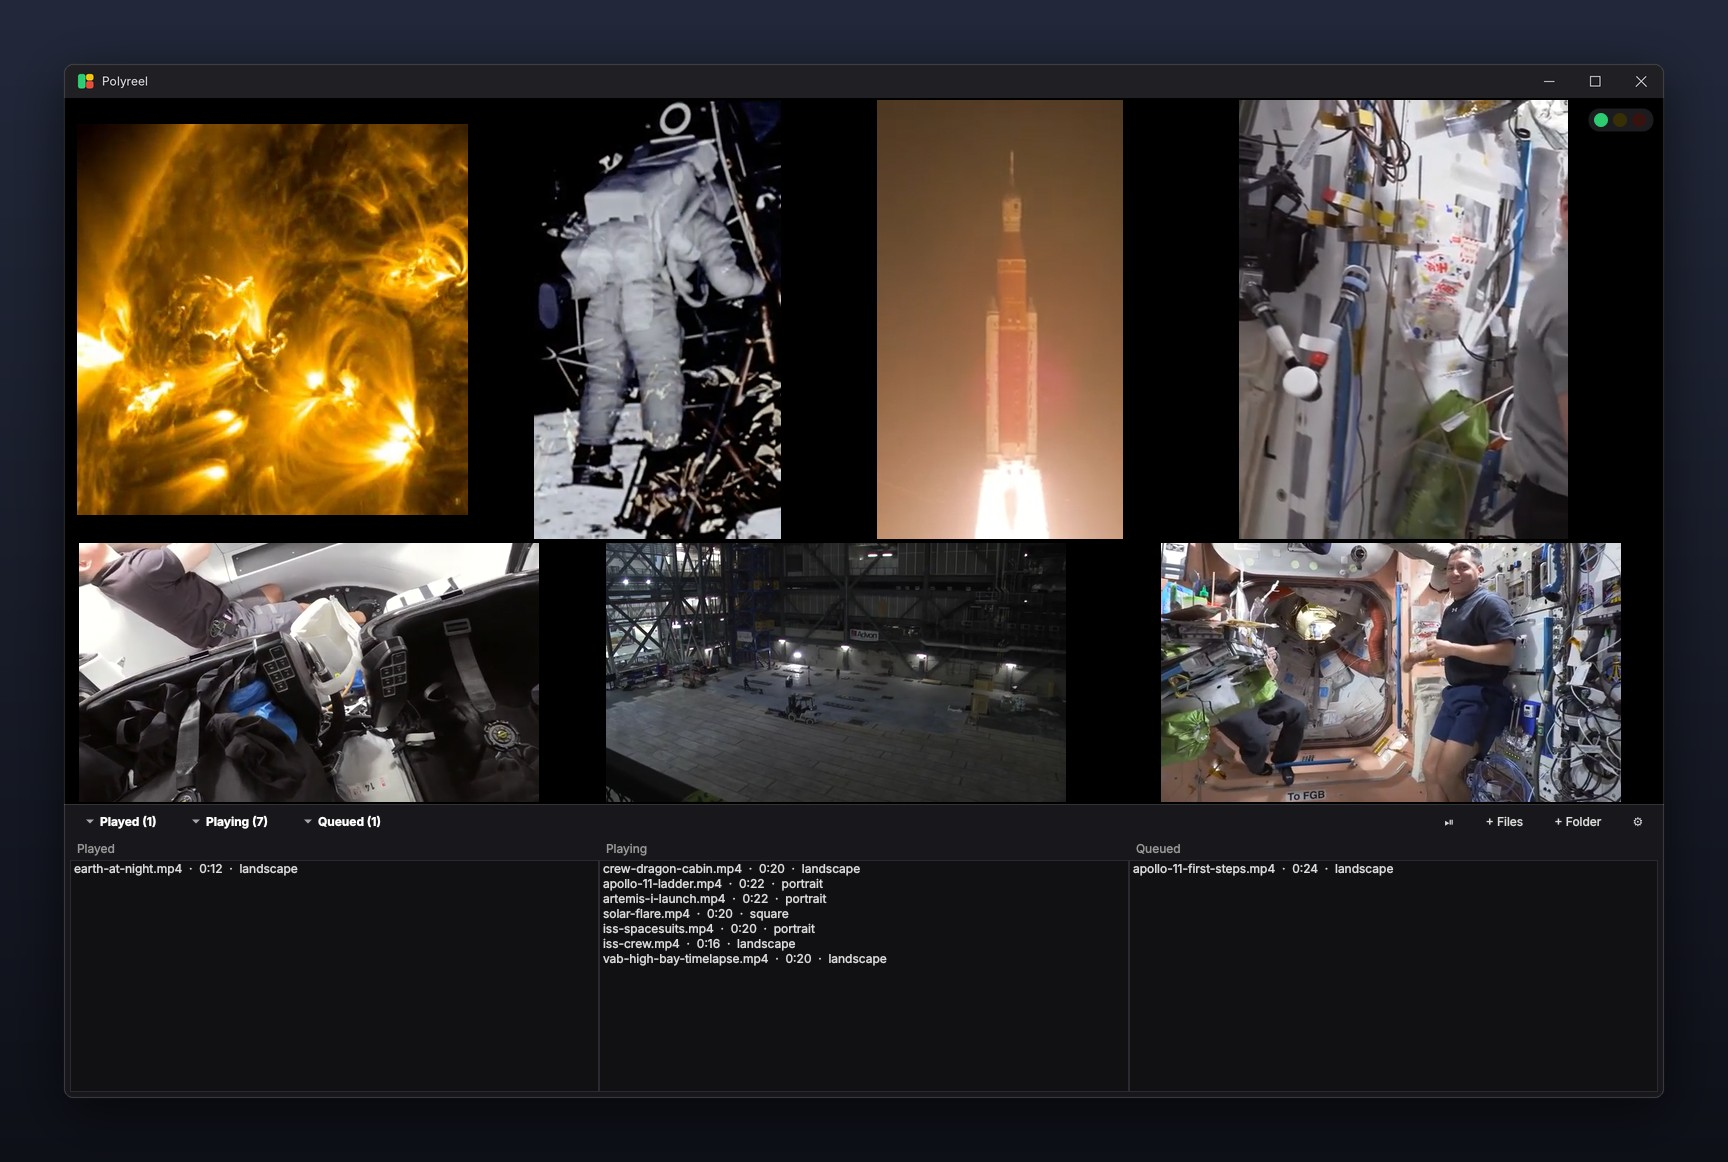
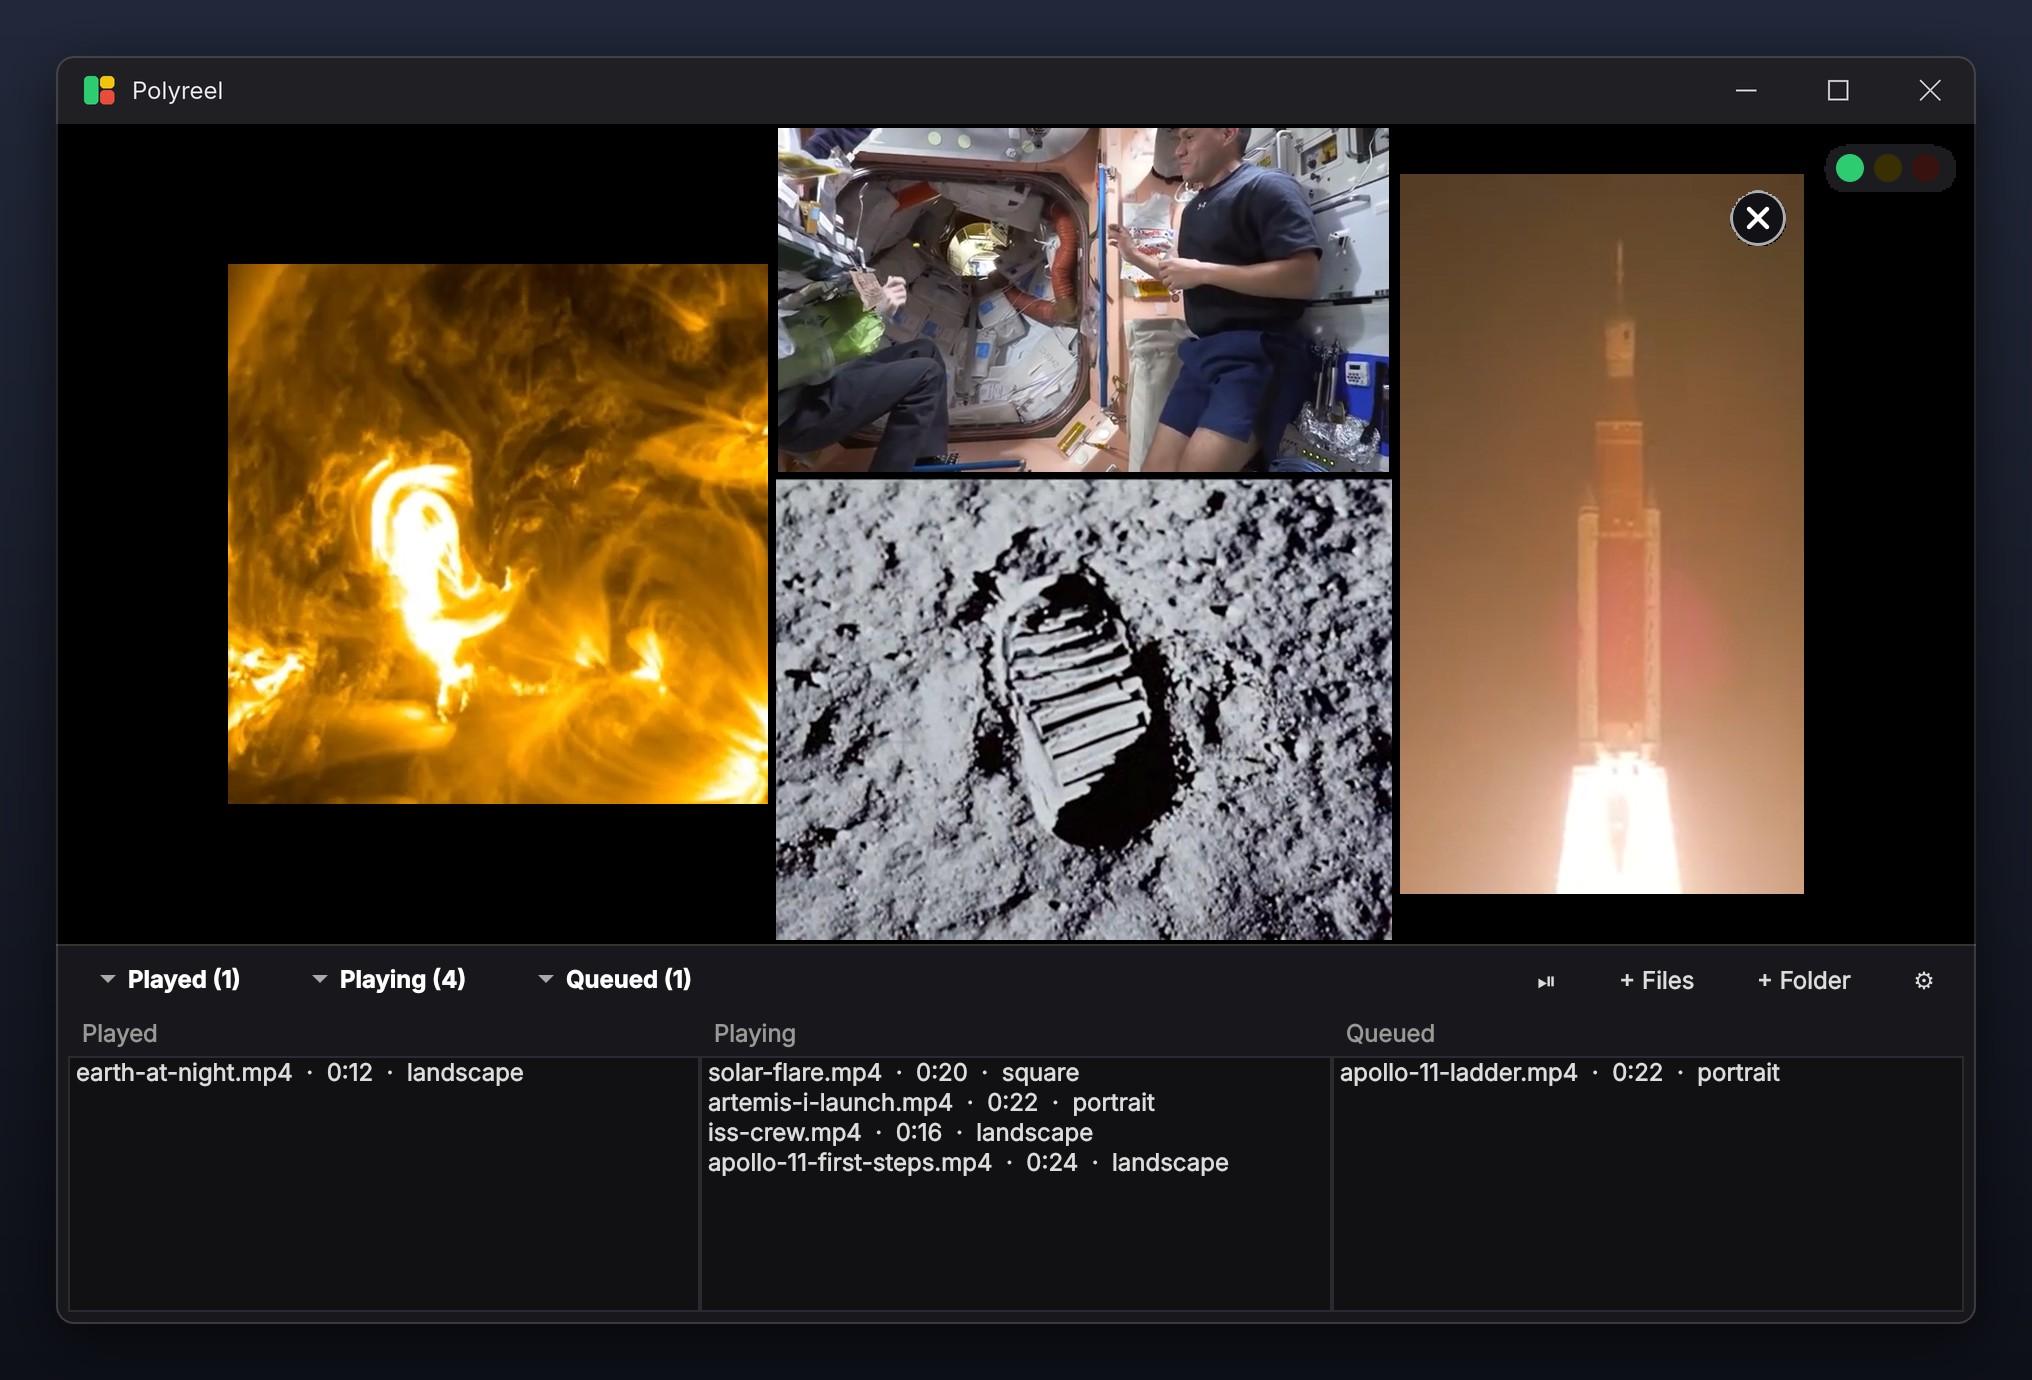
Fix close button drawing; sharper README screenshot
- The X on the hover close button was never drawn (its pen had been
  turned off). Clip the button to a circle and the traffic light to its
  rounded badge, since native windows can't have transparent corners.
- README screenshot: smaller window with four videos, captured at 2x so
  the UI stays legible at GitHub's README width.

Claude-Session: https://claude.ai/code/session_01YSjyu7AAsgPigDdfq1HNAr

diff --git a/polyreel/ui.py b/polyreel/ui.py
@@ -7,7 +7,7 @@ native window too (``WA_NativeWindow``) or it would be hidden underneath.
 from __future__ import annotations
 
 from PySide6.QtCore import QPointF, QRectF, QSize, Qt, Signal
-from PySide6.QtGui import QColor, QIcon, QPainter, QPixmap
+from PySide6.QtGui import QColor, QIcon, QPainter, QPainterPath, QPen, QPixmap, QRegion
 from PySide6.QtWidgets import (QAbstractItemView, QFrame, QHBoxLayout, QLabel,
                                QListWidget, QListWidgetItem, QMenu, QToolButton,
                                QVBoxLayout, QWidget)
@@ -83,10 +83,16 @@ class TrafficLight(QWidget):
     def mousePressEvent(self, e) -> None:
         self.clicked.emit()
 
+    def resizeEvent(self, e) -> None:
+        # Native windows can't be transparent; clip to the rounded badge.
+        path = QPainterPath()
+        path.addRoundedRect(QRectF(self.rect()), 11, 11)
+        self.setMask(QRegion(path.toFillPolygon().toPolygon()))
+
     def paintEvent(self, _e) -> None:
         p = QPainter(self)
         p.setRenderHint(QPainter.Antialiasing)
-        p.fillRect(self.rect(), QColor("#000"))
+        p.fillRect(self.rect(), QColor("#1c1c20"))
         p.setPen(Qt.NoPen)
         p.setBrush(QColor("#1c1c20"))
         p.drawRoundedRect(QRectF(self.rect()).adjusted(0.5, 0.5, -0.5, -0.5), 11, 11)
@@ -128,16 +134,17 @@ class CloseButton(QWidget):
         if e.button() == Qt.LeftButton:
             self.clicked.emit()
 
+    def resizeEvent(self, e) -> None:
+        # A native window can't be transparent, so clip it to a circle.
+        self.setMask(QRegion(self.rect(), QRegion.Ellipse))
+
     def paintEvent(self, _e) -> None:
         p = QPainter(self)
         p.setRenderHint(QPainter.Antialiasing)
-        p.fillRect(self.rect(), QColor("#000"))
-        p.setPen(Qt.NoPen)
-        p.setBrush(QColor("#c0392b") if self._hover else QColor(30, 30, 34))
-        p.drawEllipse(QRectF(self.rect()).adjusted(1, 1, -1, -1))
-        pen = p.pen()
-        pen.setColor(QColor("white"))
-        pen.setWidthF(2.2)
+        p.setPen(QPen(QColor(255, 255, 255, 170), 1.5))
+        p.setBrush(QColor("#c0392b") if self._hover else QColor(20, 20, 24, 235))
+        p.drawEllipse(QRectF(self.rect()).adjusted(0.75, 0.75, -0.75, -0.75))
+        pen = QPen(QColor("white"), 2.2)
         pen.setCapStyle(Qt.RoundCap)
         p.setPen(pen)
         m = self.SIZE * 0.34
